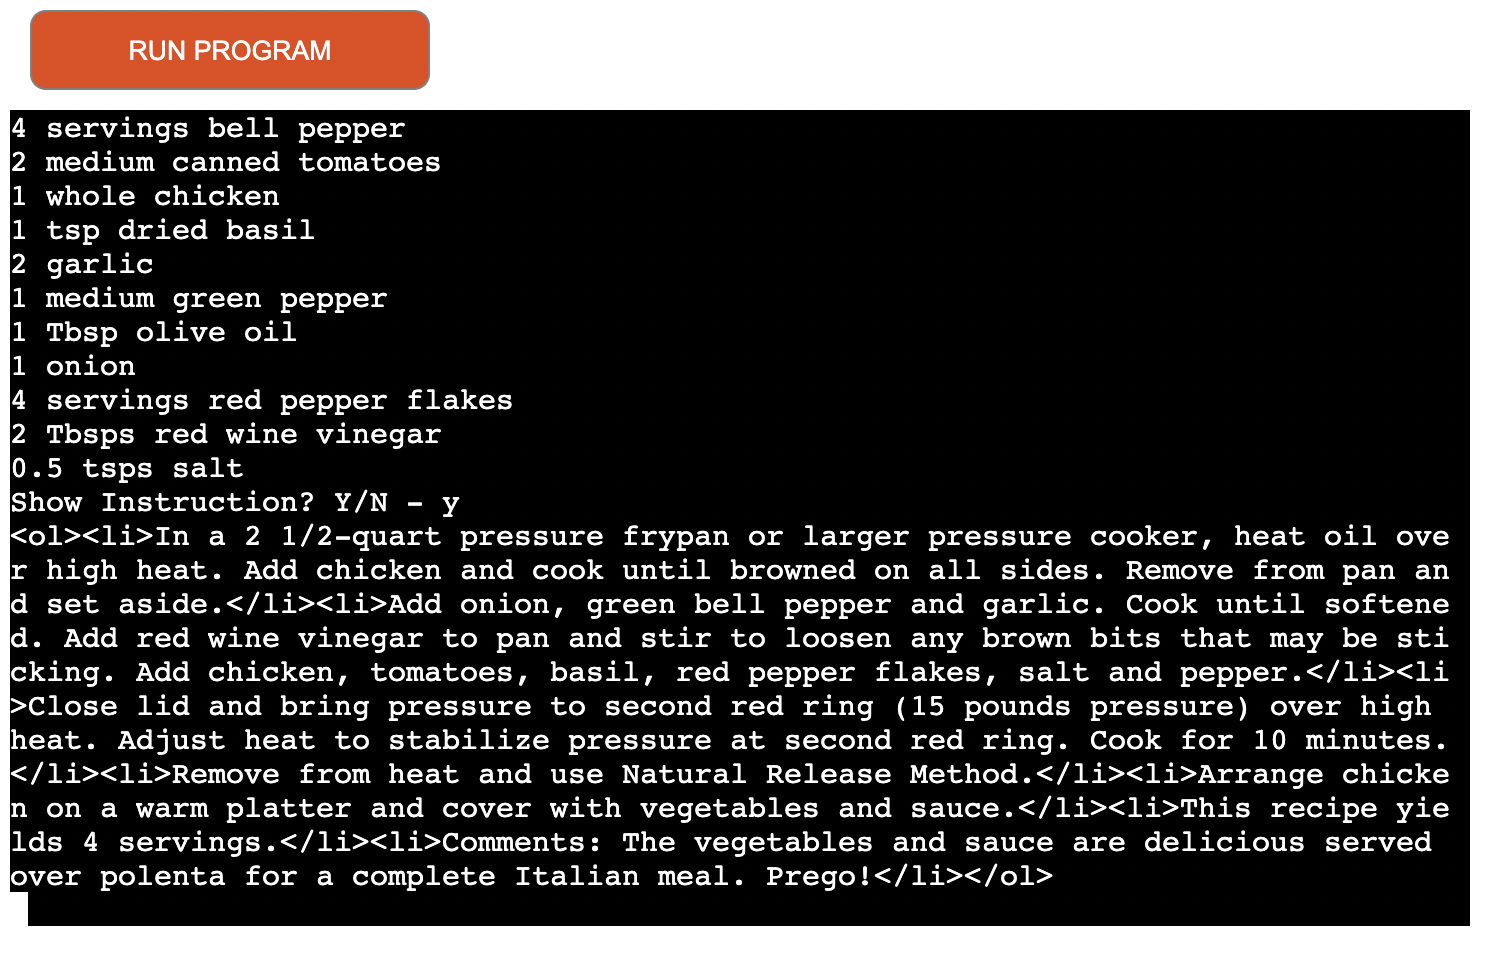
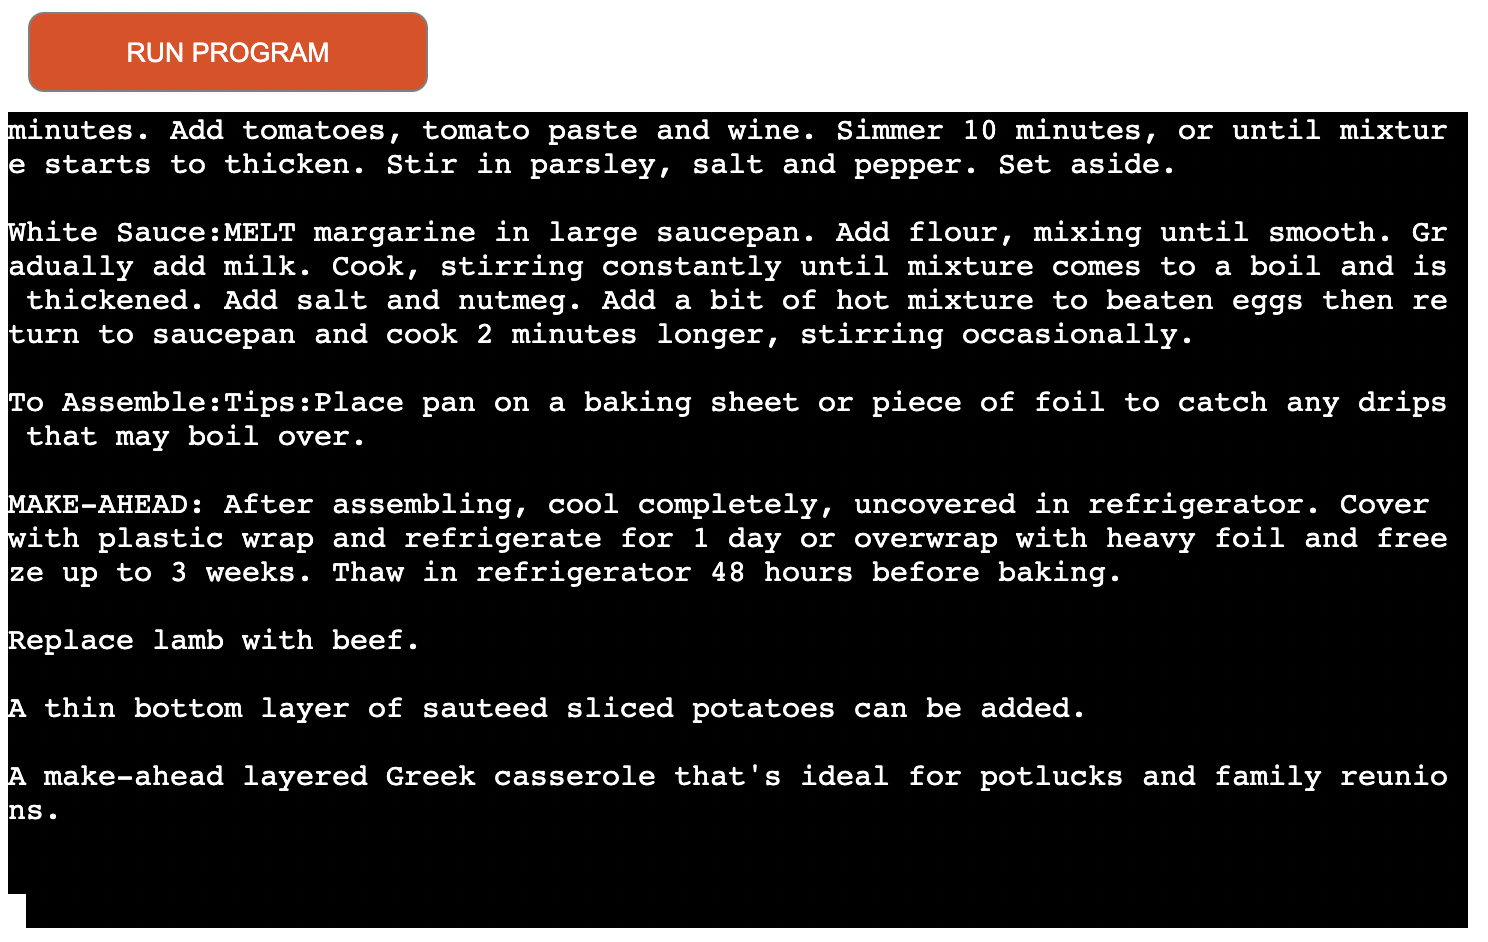
Update readme - Testing and credits section

diff --git a/algorithm.py b/algorithm.py
@@ -8,7 +8,7 @@ class Algorithm():
 
     def __init__(self, api, key):
         self.api = api + "complexSearch?number=10&offset="\
-             + str(random.randint(0, 5))+"&apiKey=" + key  #when the offset of the randint method is too high, the API throws an 404 error(not found) for cuisines that dont have many recipes e.g british. Lowered to decrease chance of error
+             + str(random.randint(0, 5))+"&apiKey=" + key
         self.originalApi = self.api
         self.cuisines = ["chinese", "italian", "british",
                          "greek", "japanese", "indian"]
@@ -16,7 +16,7 @@ class Algorithm():
 
     def search_by(self, text):
         """
-        Function description
+        Searches the user inputted text for specific key words and adds criteria to the API call
         """
         text = text.lower()
 

diff --git a/README.md b/README.md
@@ -43,12 +43,12 @@ The user is further prompted to answer if they would like the view the instructi
 
     <img src="assets/images/incorrectinput.png">
 
-- Instruction data manipulated to be displayed….
+- When the user chooses to view the recipe instructions, the data is manipulated to be displayed clearly and without any unnecessary, messy metadata.
 
 
 ### Features to add
 
-- Increase scope of search options for user e.g. additional cuisines and calorie counter.
+- Increase scope of options for user e.g. additional search features, calorie counter and daily planner.
 
 - Have a ‘favourite recipe’ feature with allows the user to store their favourite recipes in a database which can be accessed any time.
 
@@ -74,8 +74,8 @@ The user is further prompted to answer if they would like the view the instructi
 
 ### Manual Testing
 - Input data that would throw an error to ensure correct response.
-- Tested the programmes randomising feature to ensure a different 10 recipes appear after each api call.
-- Input lower case response to check the upper method was functioning correctly.
+- Tested the programmes randomising feature to ensure the same recipes didn't appear after each api call.
+- Input lower case responses to check the upper method was functioning correctly and vice versa.
 - Asked friends to navigate through the programme to highlight any glitches or uncertain prompts.
 
 ### Validator Testing
@@ -86,18 +86,17 @@ All .py files were ran through <a href="http://pep8online.com">PEP8 linter</a>, 
 
 ## Bugs
 
-Error - invalid url
-Solution - Using the api documentation, copy and past correct format
+Error - Using the recommended ‘Pip3 freeze > requirements.txt’ command to populate requirements.txt did not work as expected resulting in Heroku unable to display application.
 
-Error - within url “number=id” required to produce number of results. Wouldn’t work until using ‘&’ after ’10’
-Solution - Found solution within documentation
-
-Error - Using the recommended ‘Pip3 freeze > requirements.txt’ command to populate requirements.txt did work as expected resulting in Heroku unable to display application. 
 Solution - Copied requests file from the Love Sandwiches project which solved the issue.
 
-Error - When testing the programme I noticed that there was an issue inputting certain types of cuisine. Sometimes when I input ‘british’ I will receive a list of recipes as expected and sometimes I will receive an error message. I was unable to solve this issue and may be a problem with the API itself.
+Error - When testing the programme there were some searches that where producing 404 error (not found).
 
+Solution - The issue seemed to be resolved by reducing the stop value of the randint() method. It was initially at 100 which may have been too high for some cuisine searches, due to there not being that many although this wasn't clear from the API documentation. Since reducing the stop value, the error has not appeared.
 
+Error - Using the replace() method on the 'instruction' data to remove certain componants did not work as exepected.
+
+Solution - Using Regular expression operations allowed me to manipulate the data the way I intended.
 
 ## Technologies
 
@@ -127,10 +126,14 @@ This programme was deployed using [Heroku](https://heroku.com/)
 
 ## Credits
 
-https://www.programiz.com/python-programming/methods/string/replace
+### Content
 
-Discovering the [replace method](https://www.programiz.com/python-programming/methods/string/replace) allowed me to convert certain float measurement into integers. Float values were useful for some ingredients (i.e 1.5 grams of sugar) but not suitable for others (I.e. 2.0 potatoes) therefore discovering the above solution allowed me to replace “.0” with “ ”, making the results more readable to the user.
+Use of the [replace method](https://www.programiz.com/python-programming/methods/string/replace) allowed me to convert certain float measurement into integers. Float values were useful for some ingredients (i.e 1.5 grams of sugar) but not suitable for others (I.e. 2.0 potatoes) therefore discovering the above solution allowed me to replace “.0” with “ ”, making the results more readable to the user.
 
 I found this useful [tutorial](https://www.programiz.com/python-programming/exception-handling) on try statements in order to handle errors.
 
-### Content
+Learning about Regular expression operations from [here](https://docs.python.org/3/library/re.html) and numerous stack overflow and slack threads allowed me to manipulate data in a new way.
+
+### Other
+
+Thank you to Sandeep, my mentor, for providing assistance throughout this project as well as Ger from CI who helped with some PEP8 errors.
